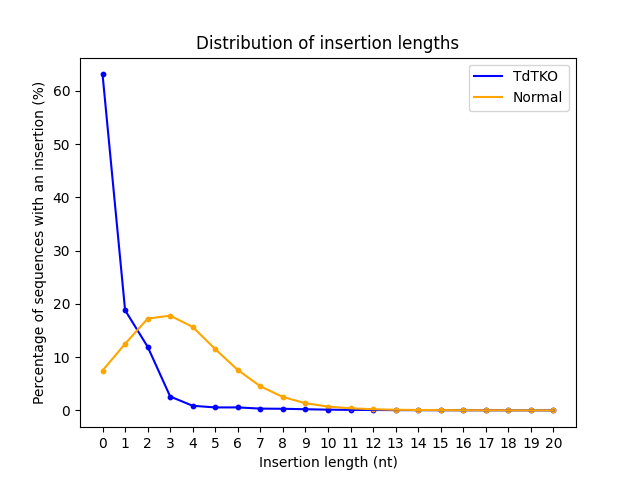
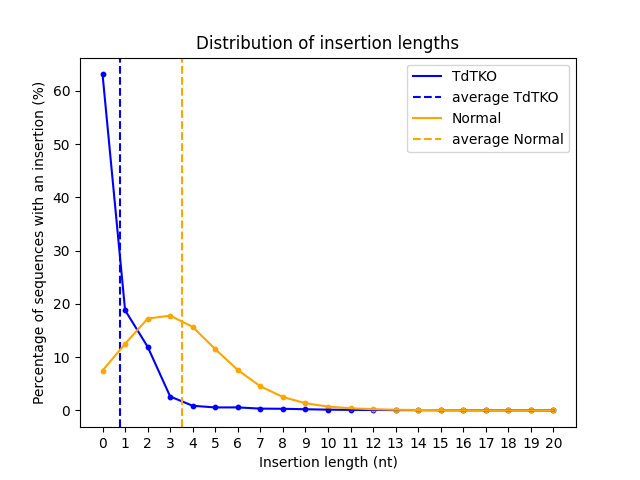
Changes to the insertions plot to show the averages, moved some of the plots to a separate directory

Changed region(s): [[0.625, 0.125, 0.9062, 0.3125], [0.625, 0.1562, 0.6875, 0.1875]]

diff --git a/code/code_main.py b/code/code_main.py
@@ -260,16 +260,18 @@ def get_insertion_counts(fn, counts: dict, delim: str):
     :return:
     """
     total_seq = 0
+    insertions = []
     with open(fn, 'r') as file:
         reader = csv.reader(file, delimiter=delim)
         header = next(reader)
         for row in reader:
             total_seq += 1
             try:
+                insertions.append(int(row[header.index('insertion.length')]))
                 counts[int(row[header.index('insertion.length')])] += 1
             except KeyError:
                 counts.update({int(row[header.index('insertion.length')]): 1})
-    return counts, total_seq
+    return counts, total_seq, insertions
 
 
 if __name__ == "__main__":
@@ -300,16 +302,18 @@ if __name__ == "__main__":
 
     # for filename in file_list:
     #     insertion_counts = {}
-    #     insertion_counts, total = get_insertion_counts(filename, insertion_counts, '\t')
+    #     insertion_counts, total, insertions = get_insertion_counts(filename, insertion_counts, '\t')
     #     labels.append(filename.split('_')[-1].rstrip('.tsv'))
     #     x = sorted(insertion_counts.keys())
     #     x_points.append(x)
     #     y_points.append([insertion_counts[point] / total * 100 for point in x])
+    #     averages.append(sum(insertions) / total)
+    #     print(f'The average is: {sum(insertions) / total}')
 
     from plots import plot_sequence_length_read_count, plot_dist_junction_sequence_length, plot_dist_insertion_length
     # plot_sequence_length_read_count(sequence_lengths, read_counts, label='Normal')
-    plot_dist_junction_sequence_length(x_points, y_points, labels, averages)
-    # plot_dist_insertion_length(x_points, y_points, labels)
+    # plot_dist_junction_sequence_length(x_points, y_points, labels, averages)
+    # plot_dist_insertion_length(x_points, y_points, labels, averages)
 
     # threshold_list = [0, 5, 10, 15, 20, 25, 50]
     # refs = read_rtcr_refs()

diff --git a/code/plots.py b/code/plots.py
@@ -89,17 +89,19 @@ def plot_dist_junction_sequence_length(x_points_lists, y_points_lists, labels, a
     plt.close()
 
 
-def plot_dist_insertion_length(x_points_lists, y_points_lists, labels):
+def plot_dist_insertion_length(x_points_lists, y_points_lists, labels, averages):
     plt.figure()
     x_, y_ = [x for x in x_points_lists[0] if x_points_lists[0].index(x) <= 20], [y for y in y_points_lists[0]
                                                                                   if y_points_lists[0].index(y) <= 20]
 
     plt.plot(x_, y_, label=labels[0], color='blue')
     plt.scatter(x_, y_, color='blue', s=10)
+    plt.axvline(averages[0], linestyle='dashed', color='blue', label='average ' + labels[0])
     x_, y_ = [x for x in x_points_lists[1] if x_points_lists[1].index(x) <= 20], [y for y in y_points_lists[1]
                                                                                   if y_points_lists[1].index(y) <= 20]
     plt.plot(x_, y_, label=labels[1], color='orange')
     plt.scatter(x_, y_, color='orange', s=10)
+    plt.axvline(averages[1], linestyle='dashed', color='orange', label='average ' + labels[1])
     plt.xticks(numpy.arange(0, 21))
     plt.title('Distribution of insertion lengths')
     plt.xlabel('Insertion length (nt)')

diff --git a/code/calculate_d_length.py b/code/calculate_d_length.py
@@ -15,7 +15,7 @@ def get_d_length_and_fraction_with_d(filename):
         header = next(reader)
         for line in reader:
             n_lines += 1
-            if int(line[header.index('D.length.used')]) > 2:
+            if int(line[header.index('D.length.used')]) > -1:
                 avg_d_length.append(int(line[header.index('D.length.used')]))
                 n_d_seg += 1
     fract_d = n_d_seg * 100 / n_lines
@@ -24,6 +24,6 @@ def get_d_length_and_fraction_with_d(filename):
 
 
 if __name__ == '__main__':
-    file = 'C:\\Users\\gabev\\PycharmProjects\\MRP_TdTKO_mice\\data_files\\B6\\filtered_data\\filtered_data_Normal.tsv'
-    # file = 'C:\\Users\\gabev\\PycharmProjects\\MRP_TdTKO_mice\\data_files\\TdTKo\\filtered_data\\filtered_data_TdTKO.tsv'
+    # file = 'C:\\Users\\gabev\\PycharmProjects\\MRP_TdTKO_mice\\data_files\\B6\\filtered_data\\filtered_data_Normal.tsv'
+    file = 'C:\\Users\\gabev\\PycharmProjects\\MRP_TdTKO_mice\\data_files\\TdTKo\\filtered_data\\filtered_data_TdTKO.tsv'
     get_d_length_and_fraction_with_d(file)
